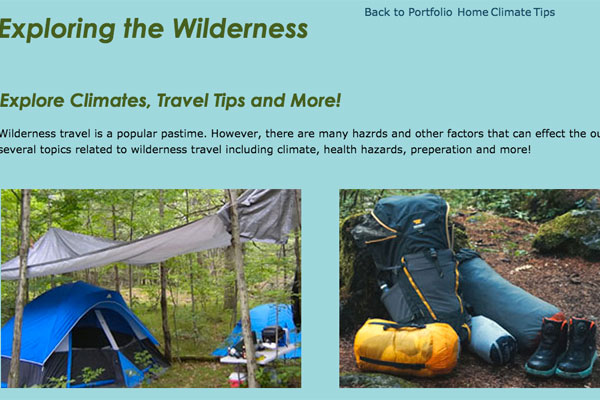
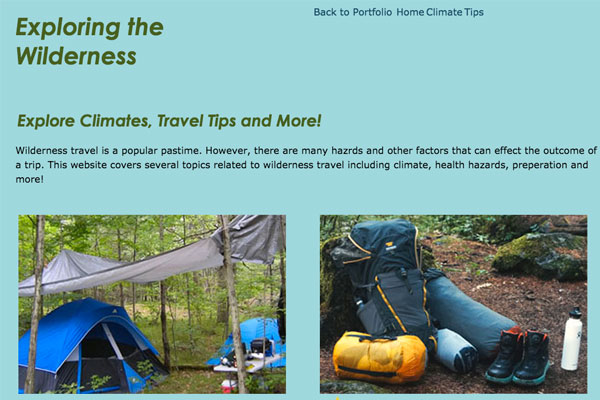
Add files via upload
Commit-4/12/17

diff --git a/IDMreview/rdwk6/public/vol.html b/IDMreview/rdwk6/public/vol.html
@@ -37,17 +37,17 @@
 
 	<div id="b">
 
-	<h1>Internships</h1>
+		<h1>Internships</h1>
 
-		<h2>EXPERIENCE THE WONDERS OF INTERNING AT COMO!</h2>
+			<h2>EXPERIENCE THE WONDERS OF INTERNING AT COMO!</h2>
 
-		<p>Como Park Zoo and Conservatory features many fascinating connections between humans, plants and animals. Our mission is to inspire the public to value the presence of living things on our lives. Annually more than 50 interns and 1300 volunteers work in partnership with staff to promote the mission of Como. Interns gain valuable career building opportunities within the unique zoological and botanical environment and are a critical component in assisting staff to ensure excellence in animal and plant management, public education and visitor services.  Intern opportunities are offered year round in some areas and seasonally in others. Please note that all internships are unpaid.</p>
+			<p>Como Park Zoo and Conservatory features many fascinating connections between humans, plants and animals. Our mission is to inspire the public to value the presence of living things on our lives. Annually more than 50 interns work in partnership with staff to promote the mission of Como. Interns gain valuable career building opportunities within the unique zoological and botanical environment and are a critical component in assisting staff to ensure excellence in animal and plant management, public education and visitor services.  Intern opportunities are offered year round in some areas and seasonally in others. Please note that all internships are unpaid.</p>
 
-		<h2>Internship Positions</h2>
+			<h2>Internship Positions</h2>
 
-		<p>There are a variety of internship positions. The positions include working with Animals and in the Gardens. Additionally students can intern in areas of marketing and public service. Contact us for more details.</p>
+			<p>There are a variety of internship positions. The positions include working with Animals and in the Gardens. Additionally students can intern in areas of marketing and public service. Contact us for more details.</p>
 
-</div>
+	</div>
 
 
 
@@ -57,25 +57,25 @@
 
 			<h2>Be Where You Belong. Experience the Wonders of Volunteering at Como Park Zoo & Conservatory.</h2>
 
-			<p>Como Park Zoo and Conservatory features many fascinating connections between humans, plants and animals. The Como Park mission is to inspire the public to value the presence of living things in our lives. Annually more than 50 interns and 1500 volunteers work in partnership with staff to realize the mission of Como.  Interns assist staff in animal and plant management, public education and visitor services and gain valuable educational career building experiences within our unique zoological and botanical environments. Most Internship positions are offered each semester.</p>
+			<p>Como Park Zoo and Conservatory features many fascinating connections between humans, plants and animals. The Como Park mission is to inspire the public to value the presence of living things in our lives. Annually more than 1500 volunteers work in partnership with staff to realize the mission of Como.  Volunteers assist staff in animal and plant management, public education and visitor services and gain valuable educational career building experiences within our unique zoological and botanical environments. Volunteer positions are available throughout the year.</p>
 
 			<h3>Volunteer Opportunities</h3>
 
-			<p>Here are some of the ways you can be involved as a volunteer at Como. Please note that current opportunities vary based on availability and seasonal needs.</p>
+			<p>Here are some of the ways you can be involved as a volunteer at Como. Please note that current opportunities vary based on availability and seasonal needs. Please contact us for more information.</p>
 
-</div>
-
-
-<div id="c">
-
-	<h1>NATURE WALK</h1>
+	</div>
 
 
-		<h2>Nature Walk Youth Interpreter</h2>  
+	<div id="c">
+
+		<h1>NATURE WALK</h1>
+
+
+			<h2>Nature Walk Youth Interpreter</h2>  
 	
-		<p>For youth ages 13 to 17 who are interested in sharing knowledge of animals and plants with Como visitors. Please contact our Customer Service office for more information and to fill out an applicaiton. Applications are due by March 1st.</p>
+			<p>For youth ages 13 to 17 who are interested in sharing knowledge of animals and plants with Como visitors. Please contact our Customer Service office for more information and to fill out an applicaiton. Applications are due by March 1st.</p>
 
-</div>
+	</div>
 
 </section>
 

diff --git a/IDMreview/index.html b/IDMreview/index.html
@@ -42,7 +42,7 @@
 
 				<h3> <a href="wdfinal/index.html">Occupational Issues in Minnesota</a></h3>
 
-					<a href="wdfinal/index.html"><img id="work" src="images/workers.jpg" alt="workers image"></a>
+					<a href="wdfinal/index.html"><img src="images/workers.jpg" alt="workers image"></a>
 
 					<p>The Occupational Issues in Minnesota website was created for my Web Design Principals course at MCAD. The assignment was to design a project focusing on an issue impacting our community. The project included several steps including proposal, research, web design and development. Initially HTML and CSS were used to display web design and development skills. Responsive Design and Javascript were added later to increase user accessibility.</p>
 
@@ -65,7 +65,7 @@
 
 				<h3> <a href="webdevfinal/acornmain.html">Camp Acorn</a></h3>
 
-					<a href="webdevfinal/acornmain.html"><img id ="camp" src="images/camp.jpg" alt="Camp Art"></a>
+					<a href="webdevfinal/acornmain.html"><img src="images/camp.jpg" alt="Camp Art"></a>
 
 					<p>The Camp Acorn website is a fictional camp website that was initially created as part of my first web development course. The assignment was to create a three page website demonstrating our HTML and CSS skills. Initially HTML and CSS were used for the website to display my recently aquired knowledge. Javascript and Responsive Design were added later on. These additional technologies allow for the user to interact with the website as well as for allowing more accessibility.</p>
 					
@@ -89,7 +89,7 @@
 
 				<h3> <a href="rdwk6/public/index.html">Como Park Friends</a></h3>
 
-					<a href="rdwk6/public/index.html"><img id="como" src="images/como.jpg" alt="Como Park"></a>
+					<a href="rdwk6/public/index.html"><img src="images/como.jpg" alt="Como Park"></a>
 
 					<p>The Como Park Friends website was created as part of my Responsive Design course at MCAD. The goal of the assignment was to find a website on the web that we felt could use improvement. I chose the Como Park Zoo and Conservatory website. As part of the assignment I re-designed the website so it could be used effectively with three different screen sizes, desktop, tablet and mobile devices. The technologies used in the website include HTML, CSS, SASS and Responsive Design. Additionally, we used Github to share and discuss our work with the class.</p>
 					
@@ -113,7 +113,7 @@
 
 				<h3> <a href="apswebsite/intro.html">Exploring the Wilderness</a></h3>	
 
-					<a href="apswebsite/intro.html"><img id = "wild" src="images/wilderness.jpg" alt="Exploring the Wilderness"></a>
+					<a href="apswebsite/intro.html"><img src="images/wilderness.jpg" alt="Exploring the Wilderness"></a>
 
 					<p>The Exploring the Wilderness website was created as part of my Advanced Projects Studio course at MCAD. The assignment was to create a project to meet individual goals and program objectives. I decided to create a website with a wilderness travel theme. There were various steps in completing this project. In the navigation menu there is a link titled Wilderness Process, this page describes the process of completing this project in more detail.</p>
 					

diff --git a/IDMreview/wdfinal/safety.html b/IDMreview/wdfinal/safety.html
@@ -43,8 +43,11 @@
 
  		<Section class="col_1B">
 			<h3>Farming:</h3>
+			
 			 <p>According to the Minnesota Safety Council (2014) farming is one of the most hazardous occupations in Minnesota.<br>
+            
              <img src="images/farm.jpg" alt="Farmers"><br>
+			
 			 Some of the hazards include working with equipment, machinery and tools, extreme weather patterns, loud noises and natural hazards including mud and ponds.</p>
 
 		</section>
@@ -54,8 +57,11 @@
 			<p>Children and the elderly are especially vulnerable to farm accidents. Another issue that faced by farmers is that rural areas are often far from advanced medical care.</p>
 
 			<h3>Resolutions:</h3>
+			
 			 <p>Resolutions include taking precautions against injuries. Precautions may include wearing protective gear, reading and fallowing machinery instructions and checking and marinating equipment (Minnesota Safety Council, 2014). 
+			
 			<h3>Workplace Violence:</h3>
+			
 			<p>According to the Minnesota Safety Council (2014) violence at workplaces is a growing concern. This trend includes an alarming</p>
 
 		</section>
@@ -63,7 +69,9 @@
 		<section class="col_3B">	
 
 			<p>increase of verbal and physical assaults and homicide. While all types of organizations are at risk. Organizations that employ certain types of workers are at greater risk including: health-care providers, probation officers and community workers. In addition workers who work during non-traditional hours, with money, alone or in small groups seem to be at an increased risk (Minnesota Safety Council, 2014). 
+			
 			<h3>Resolutions:</h3>
+			
 			<p>There are multiple steps organizations can take to reduce the risk of workplace violence. Some of these steps include educating workers about acceptable conduct and violence prevention (Minnesota Safety Council, 2014).</p>
 
 		</section>	
@@ -71,6 +79,7 @@
         <section class="col_4B">
 
 			<h3>Traffic Safety:</h3>
+			
 			<p>Traffic accidents are one of the leading causes of occupational injuries. This includes workers being struck by vehicles as well as transportation accidents. There are several steps organizations can take to reduce the risk of injury among its workers and others. Some of these include the use of traffic signals and devices, using barriers and good lighting and providing safety training to employees. In addition company vehicles should be equipt with safety gear and seatbelts (Minnesota Safety Council, 2014).</p>	
 
 		</section>

diff --git a/IDMreview/apswebsite/essentials.html b/IDMreview/apswebsite/essentials.html
@@ -49,7 +49,7 @@
 
 				<h3>Navigation</h3>
 
-					<p>Map and compass are now viewed as 2 components of a navigation system. Add a wrist altimeter, toss in a GPS and, well, you can see how the systems approach to the Ten Essentials can easily total more than 10 individual items. A topographic map should accompany you on any trip that involves anything more than a short, impossible-to-miss footpath or frequently visited nature trail. A compass, combined with map-reading knowledge, is a vital tool if you become disoriented in the backcountry. Have high-tech GPS receivers made compasses obsolete? No. A compass weighs next to nothing and does not rely on batteries. So even if you rely heavily on a GPS for navigation, a traditional compass is an indispensable backup. Note: A compass equipped with a sighting mirror can also be used to flash sunlight to a helicopter or rescuer during an emergency. An altimeter is a worthwhile navigational extra to consider. It uses a barometric sensor to measure air pressure and provide a close estimate of your elevation, information that helps you track your progress and determine your location on a map.</p>
+					<p>Map and compass are now viewed as two components of a navigation system. Add a wrist altimeter, toss in a GPS and, well, you can see how the systems approach to the Ten Essentials can easily total more than 10 individual items. A topographic map should accompany you on any trip that involves anything more than a short, impossible-to-miss footpath or frequently visited nature trail. A compass, combined with map-reading knowledge, is a vital tool if you become disoriented in the backcountry. Have high-tech GPS receivers made compasses obsolete? No. A compass weighs next to nothing and does not rely on batteries. So even if you rely heavily on a GPS for navigation, a traditional compass is an indispensable backup. Note: A compass equipped with a sighting mirror can also be used to flash sunlight to a helicopter or rescuer during an emergency. An altimeter is a worthwhile navigational extra to consider. It uses a barometric sensor to measure air pressure and provide a close estimate of your elevation, information that helps you track your progress and determine your location on a map.</p>
 
 				<h3>Sun Protection</h3>
 

diff --git a/IDMreview/apswebsite/tundra.html b/IDMreview/apswebsite/tundra.html
@@ -47,7 +47,7 @@
 
 				<img id ="tundra" src="images/Subarctic-climate.jpg" alt="Subarctic Climate Image">
 
-				<p>TThere are three other climate types. The first is tundra. This is similar to subarctic in that there are short, cool summers and long, cold winters. There are two important distinctions. First the tundra is typically dry and also there is permafrost on the ground year round. The tundra is located in places north of the Arctic Circle including northern Alaska. The second climate type is the ice cap. The ice cap is located in Antarctica and Greenland. The ice cap consists of below freezing temperatures year round with little precipitation. The third category consists of highlands. The highlands are located in mountainous regions where the temperature and precipitation varies depending on the location. </p>
+				<p>There are three other climate types. The first is tundra. This is similar to subarctic in that there are short, cool summers and long, cold winters. There are two important distinctions. First the tundra is typically dry and also there is permafrost on the ground year round. The tundra is located in places north of the Arctic Circle including northern Alaska. The second climate type is the ice cap. The ice cap is located in Antarctica and Greenland. The ice cap consists of below freezing temperatures year round with little precipitation. The third category consists of highlands. The highlands are located in mountainous regions where the temperature and precipitation varies depending on the location. </p>
 
 
 			</section>

diff --git a/IDMreview/apswebsite/tropics.html b/IDMreview/apswebsite/tropics.html
@@ -47,7 +47,7 @@
 
 				  <img id ="tropics" src="images/tropics.jpg" alt="Tropical beach image">
 
-					<p>The tropics are located near the Equator generally between the 25 degrees north and 25 degrees south latitude. The topics have warm to hot temperatures year round. There are two types of tropical regions, wet and wet and dry. The wet tropical regions are generally hotter and more humid. They also receive more rainfall averaging between 70-100 inches of rain per year. The wet tropical areas are where the jungles are located which have rain year round. While the tropical wet and dry areas also known as tropical savannahs have wet and dry seasons during the year. Countries with tropical climates include Brazil and Indonesia.</p>
+					<p>The tropics are located near the Equator generally between the 25 degrees north and 25 degrees south latitude. The topics have warm to hot temperatures year-round. There are two types of tropical regions, wet and wet and dry. The wet tropical regions are generally hotter and more humid. They also receive more rainfall averaging between 70-100 inches of rain per year. The wet tropical areas are where the jungles are located which have rain year-round. The tropical wet and dry areas also known as tropical savannahs have wet and dry seasons during the year. Countries with tropical climates include Brazil and Indonesia.</p>
 
 			</section>
 

diff --git a/IDMreview/webdevfinal/acorn.js b/IDMreview/webdevfinal/acorn.js
@@ -1,7 +1,7 @@
 //This page was created with the assistance of the css tricks website.
 $(document).ready(function() {
   $("a").on('click', function() {
-    $(this).css("color", "#207e32");
+    $(this).css("color", "#359c44");
   });
 //This makes a yellow background for links when they are clicked on.
 
@@ -17,7 +17,7 @@ setInterval(function() {
 }, 2000);
 
 
-//Slideshows of images on home and activities pages
+//Slideshows of images on home page
 
 
   $(document).click(function() {

diff --git a/IDMreview/process.html b/IDMreview/process.html
@@ -49,7 +49,7 @@
 						<li>Submitted final project on Github</li>
 					</ul>
 
-				<!--Steps taken to complete Explore the Wilderness project. Below are examples of the work completed during the course of completing the project.-->
+				<!--Steps taken to complete Explore the Wilderness project. Below is copy of Mood Board completed during the course of completing the project.-->
 
 				<h3>Mood Board</h3>
 			

diff --git a/IDMreview/main.css b/IDMreview/main.css
@@ -85,9 +85,8 @@ p {
 }
 
  img {
-	margin: 0em;
-	padding-left: 1em;
-	max-width: 100%;
+	margin-left: 0.7em;
+	max-width: 90%;
 	border: 0.1em solid #3fa4ce;
 }
 
@@ -127,7 +126,8 @@ p {
 	}
 
 	img {
-		margin-left: 1em;
+		max-width: 100%;
+		border: 0.5em solid #3fa4ce;
 	}
 
 }
@@ -142,8 +142,5 @@ p {
  	padding-top: 0.5em;
  }
  
- #work, #camp, #como, #wild {
- 	padding-left: 1em;
- }
 }
 

diff --git a/IDMreview/rdwk6/public/index.html b/IDMreview/rdwk6/public/index.html
@@ -45,7 +45,7 @@
 			<li>Conservatory with a large of variety of plansts from around the world</li>
 			<li>Rides for Children and Families</li>
 			<li>Educational courses and school field trips</li>
-			<li>Special events such as hosting weddings, picnics, birthdays, shows and more!</li>
+			<li>Places to host special events such as weddings, picnics, birthdays, shows and more!</li>
 
 		</ul>
 

diff --git a/IDMreview/webdevfinal/acornstyle.css b/IDMreview/webdevfinal/acornstyle.css
@@ -154,7 +154,7 @@ footer {
 }
 
 .slideshow img {
-	max-width: 80%;
+	max-width: 70%;
 }
 
 .sports {
@@ -203,8 +203,8 @@ footer {
 		margin: 0;
 	}
 
-	.slideshow img {
-		max-width: 75%;
-	}
+   .slideshow img {
+	    max-width: 55%;
+    }
 
 }

diff --git a/IDMreview/wdfinal/styles.css b/IDMreview/wdfinal/styles.css
@@ -309,11 +309,11 @@ body{
 }
 .col_2B {
 	float: left;
-	width: 24%;
+	width: 23%;
 	margin-left: 0.2em;	
 }
 .col_3B {
-	width: 24%;
+	width: 23%;
 	margin-left: 0.2em;
 }
 .col_4B {
